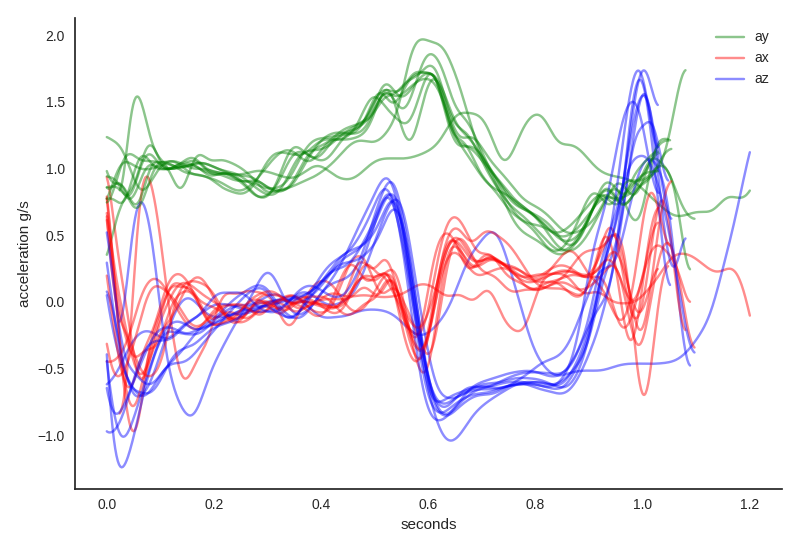
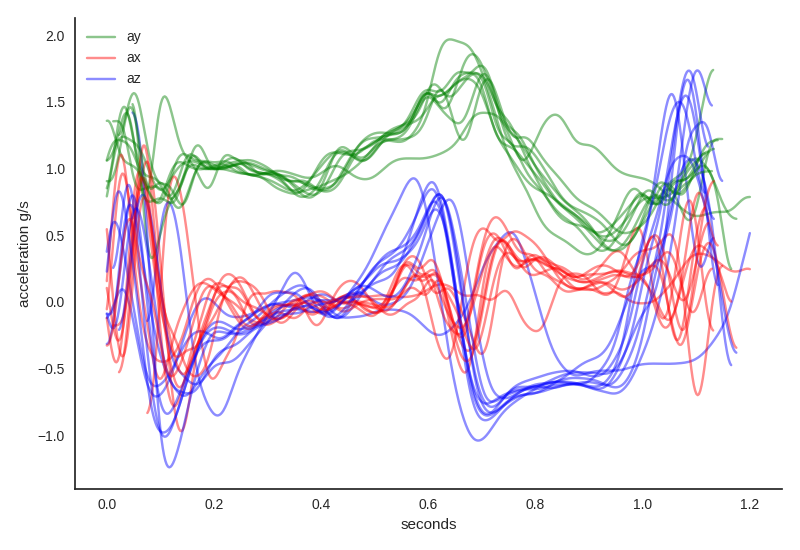
Test gpflow results

Changed region(s): [[0.0938, 0.0618, 0.9688, 0.8655]]

diff --git a/align_data.py b/align_data.py
@@ -77,6 +77,39 @@ shift = np.median([find_average_shift(data, k) for k in directions],axis=0)
 print compute_loss(shift)
 print shift*dt
 
+
+name = 'az'
+x = np.array([time,]*len(data)).ravel()
+y = np.array([data[i][name](time - dt*shift[i]) for i in data]).ravel()
+idx = (x<0) | (y==0)
+x = x[~idx]
+y = y[~idx]
+
+x = x.reshape(-1,1)
+y = y.reshape(-1,1)
+
+#N = 12
+#x = np.random.rand(N,1)
+#y = np.sin(12*x) + 0.66*np.cos(25*x) + np.random.randn(N,1)*0.1 + 3
+
+import GPflow
+k = GPflow.kernels.Matern52(1, lengthscales=0.3)
+m = GPflow.gpr.GPR(x, y, kern=k)
+m.likelihood.variance = 0.01
+mean,var = m.predict_y(time[:,None])
+plt.plot(time[:,None], mean)
+plt.fill_between(time[:,None][:,0],
+                 mean[:,0] - 2*np.sqrt(var[:,0]),
+                 mean[:,0] + 2*np.sqrt(var[:,0]), color='blue', alpha=0.15)
+
+plt.scatter(x,y,color='k',s=1,alpha=0.15)
+plt.show()
+
+print x.shape,y.shape
+exit()
+
+
+'''
 from scipy.optimize import minimize
 sol = minimize(compute_loss, shift, method='L-BFGS-B',
                options={"maxiter":10})
@@ -84,7 +117,7 @@ shift = sol.x
 
 print shift*dt
 print compute_loss(shift)
-
+'''
 
 color_keys = {'ax':'r','ay':'g','az':'b'}
 
